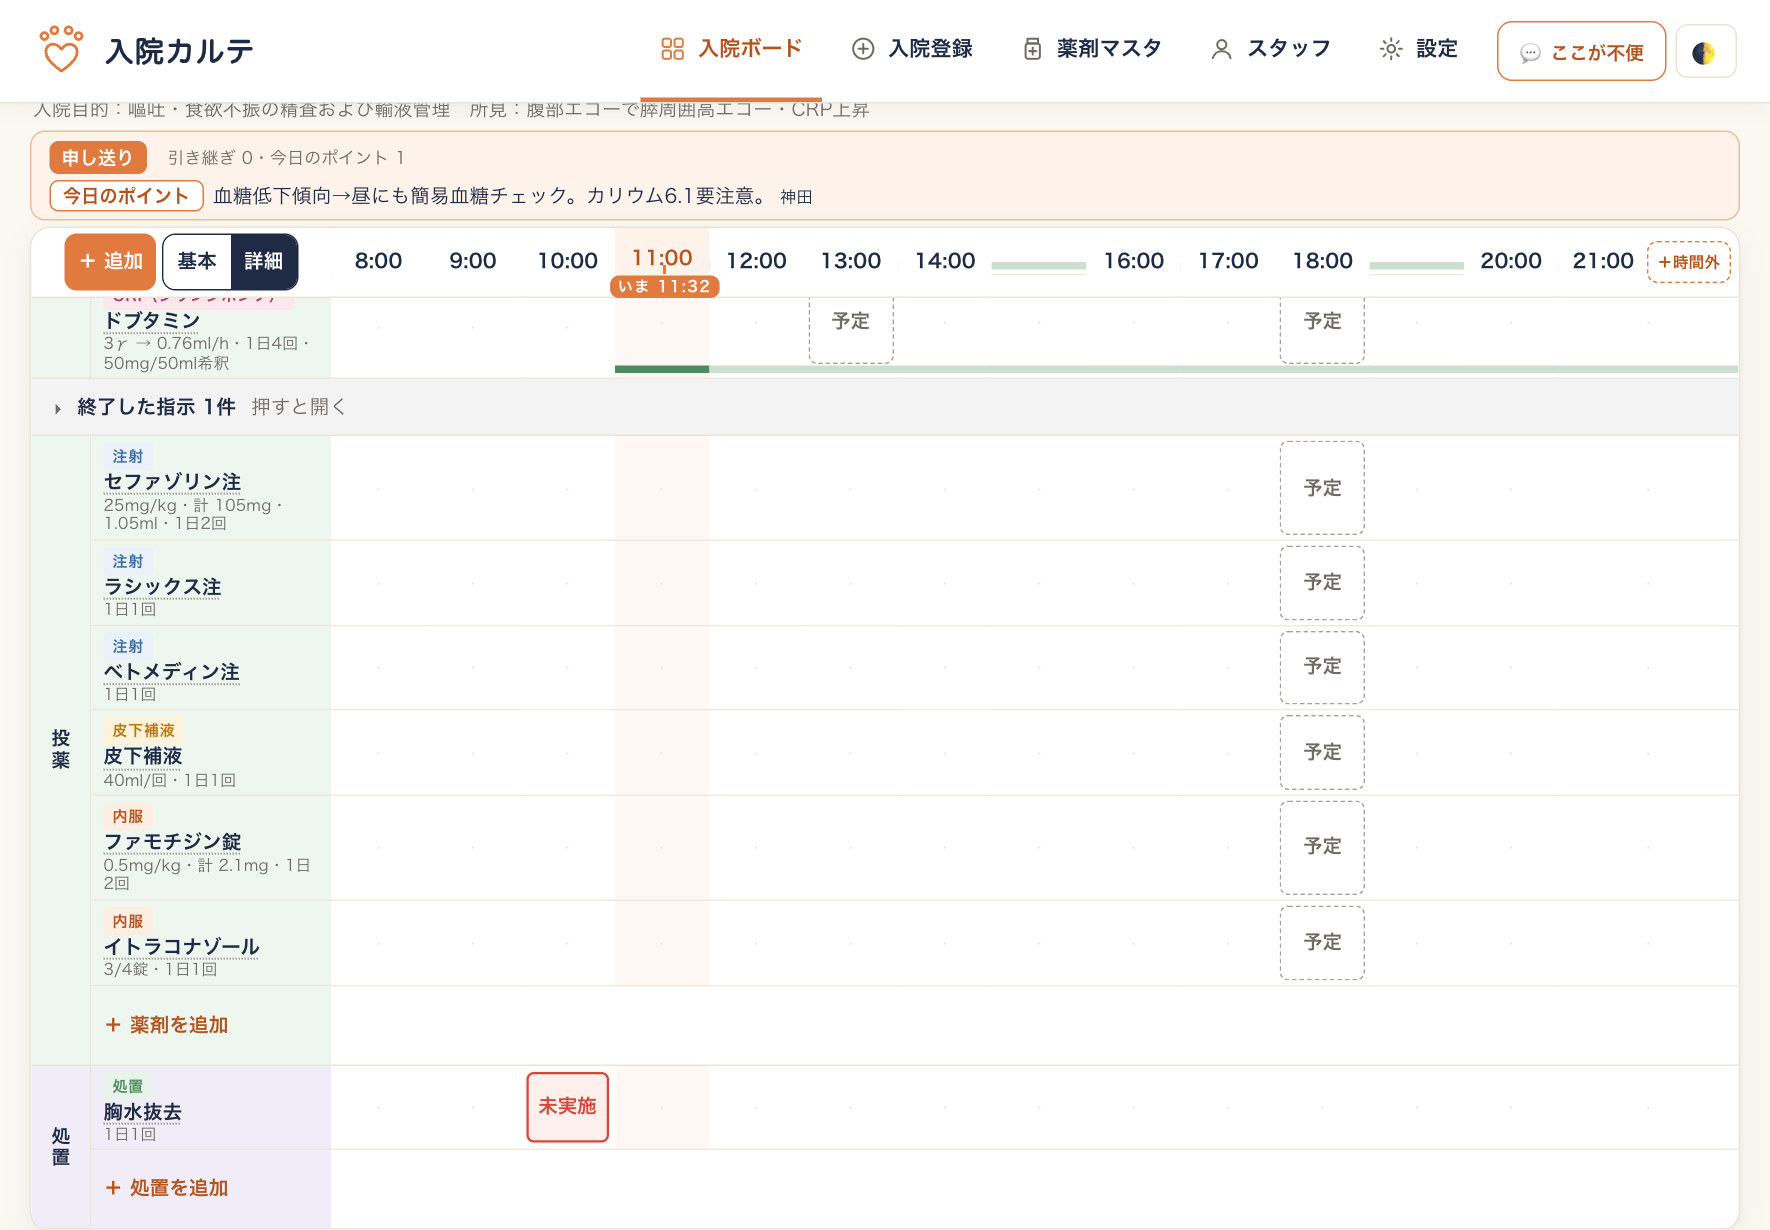
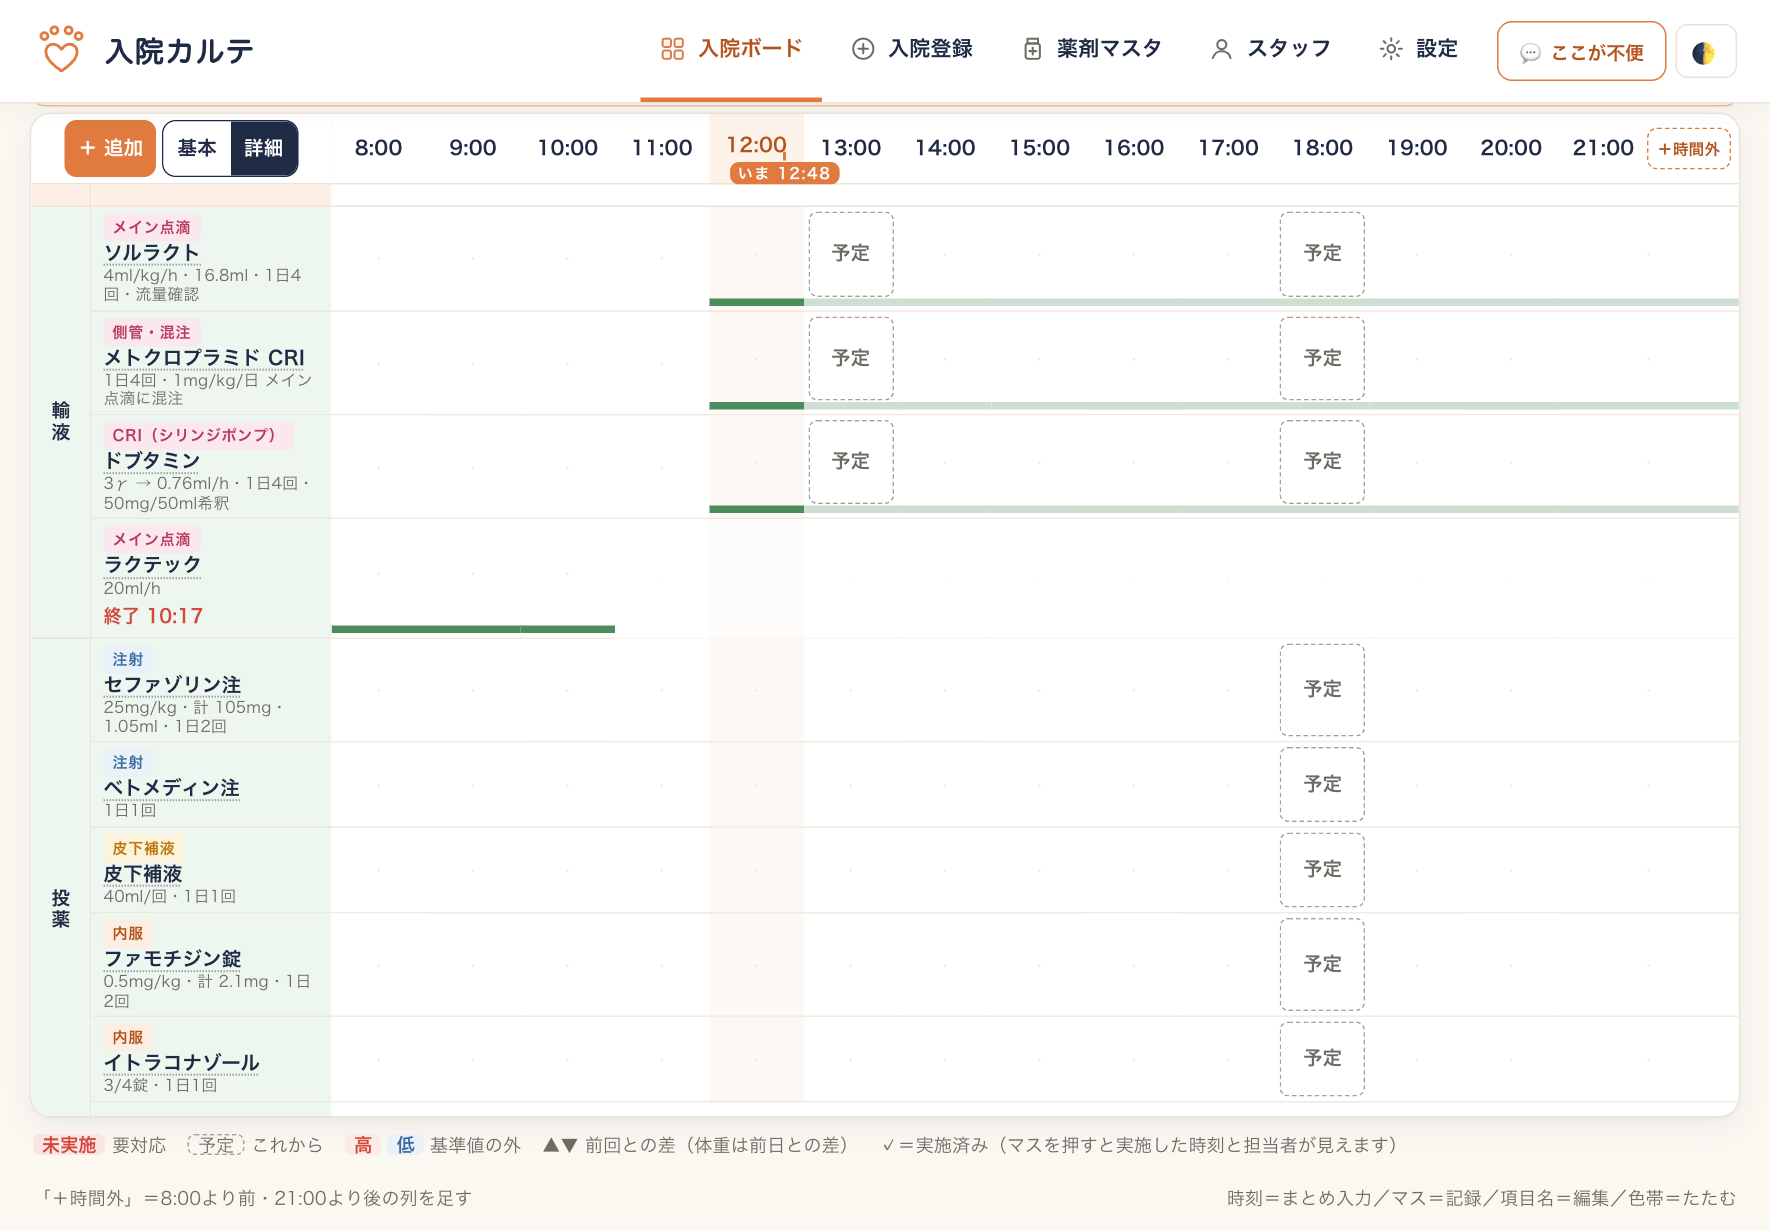
入院カルテ：終了した指示は上のボタン「終了した指示 ◯」へ・終了した日は「終了 hh:mm」・終了するときに記録者（2026-10-23）

diff --git a/nyuin.html b/nyuin.html
@@ -61,7 +61,7 @@
 
 <h1>入院カルテ 使い方ガイド
 <small><a href="classic.html" style="color:#fff;text-decoration:underline">← ガイド一覧へ</a></small>
-<small>獣医師・動物看護師向け ｜ 2026年10月22日版 ｜ 荻窪ツイン動物病院</small></h1>
+<small>獣医師・動物看護師向け ｜ 2026年10月23日版 ｜ 荻窪ツイン動物病院</small></h1>
 
 <div class="card">
 <b>30秒まとめ</b><br>
@@ -152,7 +152,8 @@
 <li><b>基本｜詳細</b>：詳細にすると、呼吸音・呼吸様式・意識状態・粘膜色・血圧・SpO2 の行が出ます。ICU の子は最初から詳細です。</li>
 <li><b>観察</b>は最初は<b>排尿・排便</b>だけです（点滴中は留置針も自動で出ます）。飲水・尿量・嘔吐・散歩・歯磨きなどは、要る子だけ「＋ 観察項目を追加」で足します。</li>
 <li>その日に中身がない区分（検査・処置など）は「＋ ◯◯を追加」の1行だけになります。</li>
-<li>その日に<b>終了した指示</b>は、区分の一番下の「<b>終了した指示 ◯件 ▸</b>」の1行にたたまれます。押すと薄い表示で開きます（終わった時刻とその日の記録が見えます）。開いた・たたんだは、その日の間この端末で覚えています。</li>
+<li><b>終了した指示</b>は、終了した日までは、ほかの指示と同じふつうの行で出ます。終了した日は項目名の下に赤字で「<b>終了 21:17</b>」のように出て、その時刻より後のマスは薄くなります。次の日からは表に出ません。</li>
+<li>見出しの右の「<b>終了した指示 ◯</b>」（申し送りの左・0件のときは出ません）を押すと、入院中に終了した指示が新しい順に並びます（区分・名前・最後の量や流量・開始〜終了の日時・終了した人）。行を押すと、終了した日のシートに移ります。</li>
 <li><b>前日・翌日</b>：見出しの右で日付を切り替えます。夜間管理の子は「日中｜夜間」も切り替えられます（夜間＝21:00〜翌7:00）。</li>
 <li>入院目的などは1行に切り詰めています。押すと全文が出ます。</li>
 <li>申し送りの帯（朝の検査・前日からの引き継ぎ・今日のポイント）が表の上に出ます。</li>
@@ -160,8 +161,10 @@
 <li>見出しの右の「<b>写真</b>」で、この子の写真・動画を日付ごとに見られます。</li>
 <li>iPad を<b>縦</b>にしたときは、1段目が患者情報、2段目が「‹ 入院ボード」・日付・右のボタンの2段になります（ボタンは折り返して全部見えます）。</li>
 </ul>
-<img class="shot wide" src="nyuin-proc.png" alt="終了した指示・投薬・処置の区分">
-<div class="cap">▲ 「終了した指示 1件 ▸」・投薬の区分・処置の区分（架空データ）</div>
+<img class="shot wide" src="nyuin-proc.png" alt="終了した日の点滴の行">
+<div class="cap">▲ 終了した日の点滴の行。項目名の下に「終了 10:17」（架空データ）</div>
+<img class="shot wide" src="nyuin-endl.png" alt="終了した指示の一覧">
+<div class="cap">▲ 見出しの右の「終了した指示 ◯」を押したところ。行を押すと終了した日のシートへ（架空データ）</div>
 <h3>4-2. マスの見方</h3>
 <table>
 <tr><th style="width:30%">表示</th><th>意味</th></tr>
@@ -251,7 +254,7 @@
 <h3>6-2. 項目名を押して直す・終える</h3>
 <ul>
 <li>行の項目名（薬剤名・体温など）を押すと、右のパネルで名称・用量・予定の時間帯・メモを直せます。</li>
-<li>「<b>この項目を終了</b>」で、今日から先の未実施の予定が消えます（実施済みの記録は残ります）。投薬・点滴・処置は、終了した日のシートでは区分の一番下の「終了した指示 ◯件 ▸」にたたまれます（押すと薄い行で、終わった時刻とその日の記録が見えます）。</li>
+<li>「<b>この項目を終了</b>」で、今日から先の未実施の予定が消えます（実施済みの記録は残ります）。終了するときは、記録者を選んでから「<b>終了する</b>」を押します。終了した日のシートでは項目名の下に「終了 ◯:◯◯」が出て、次の日からは見出しの右の「終了した指示 ◯」で見ます（4-1）。</li>
 <li>観察項目は「＋ 観察項目を追加」で候補（飲水・尿量・嘔吐・散歩・歯磨き・疼痛 ほか）から足すか、名前を入れて足せます。項目名から「表示しない」にしても記録は残り、「↩」で戻せます。</li>
 <li>項目名のパネルの「<b>ボードに出す</b>」で、入院ボードのカードの「今日やること」に出す・出さないを切り替えます（3-1）。</li>
 </ul>
@@ -383,7 +386,7 @@
 <tr><td>昼に足した指示の朝の分が出ない</td><td>指示を出した時刻より60分以上前の今日の予定は作らない決まりです（やり忘れではないのに「未実施」にしないため）。</td></tr>
 <tr><td>ボードに体温・観察の予定が出ない</td><td>最初は投薬・処置・検査・強制給餌/チューブの食事だけ出します。出したい項目は、シートの項目名を押して「ボードに出す」にしてください。</td></tr>
 <tr><td>点滴の流量を変えたら行が2本になった</td><td>流量は項目名を押して直します（行は1本のまま、変えた時刻のマスに新しい流量が太字で出ます）。「＋ 追加」で同じ点滴を入れると止まります。</td></tr>
-<tr><td>終了した薬がシートから消えた</td><td>区分の一番下の「終了した指示 ◯件 ▸」にたたまれています。押すと開きます。</td></tr>
+<tr><td>終了した薬がシートから消えた</td><td>終了した次の日からは表に出ません。見出しの右の「終了した指示 ◯」を押すと一覧が出て、行を押すと終了した日のシートに移ります。</td></tr>
 <tr><td>尿量の行がない</td><td>最初は出しません。尿カテ留置・カテーテル導尿のときは排尿の記録で尿量を入れます。行が要る子は「＋ 観察項目を追加」で「尿量」を足してください。</td></tr>
 <tr><td>撮った動画はずっと残りますか？</td><td>写真は残り続けます。動画は<b>退院から90日たつと院内の NAS へ移します</b>（アプリからは見えなくなります）。</td></tr>
 <tr><td>表示がおかしい・動かない</td><td>まず再読み込み。直らなければ院長へ。</td></tr>
@@ -392,7 +395,7 @@
 
 <div class="imp"><b>⚠ 患者情報の取り扱い：</b>この画面には患者名・飼い主さんの情報が表示されます。<b>院外で画面を開いたまま席を離れない・画面の写真をSNS等に載せない</b>でください。（このガイドの画像はすべて架空のサンプルです）</div>
 
-<footer>荻窪ツイン動物病院 ｜ 入院カルテ 使い方ガイド（2026年10月22日版）<br>不明点・改善要望は院長まで</footer>
+<footer>荻窪ツイン動物病院 ｜ 入院カルテ 使い方ガイド（2026年10月23日版）<br>不明点・改善要望は院長まで</footer>
 </div>
 </body>
 </html>
